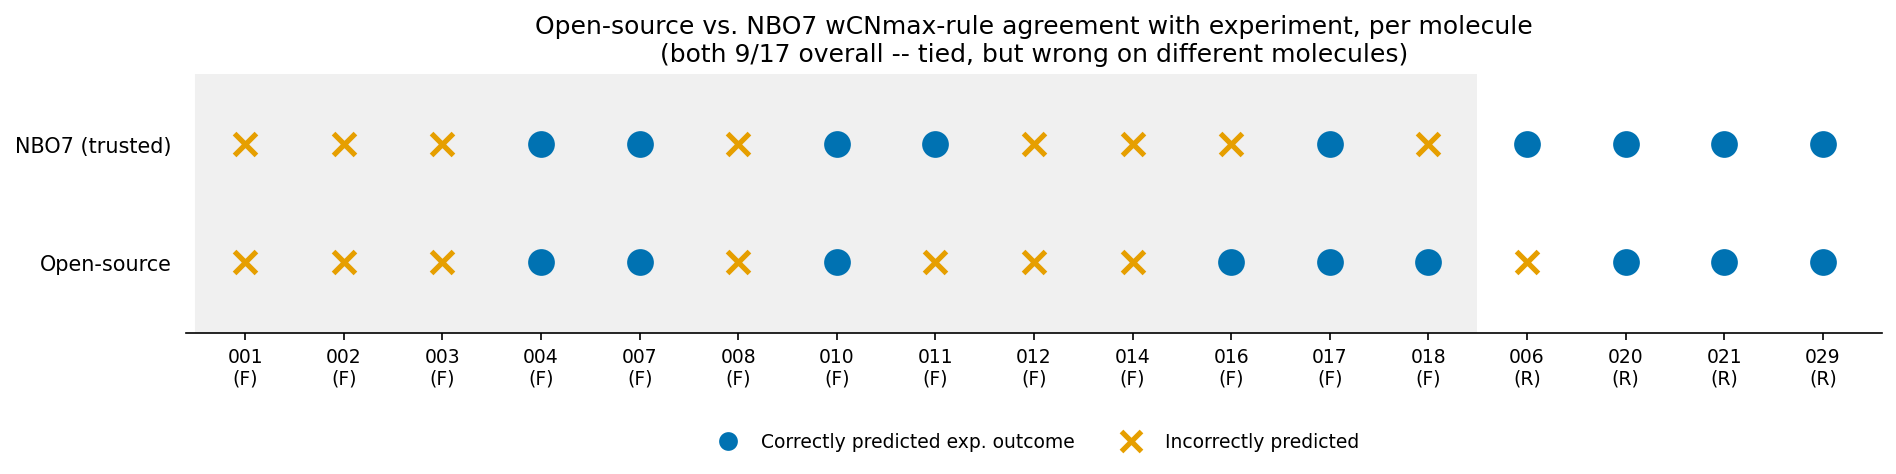
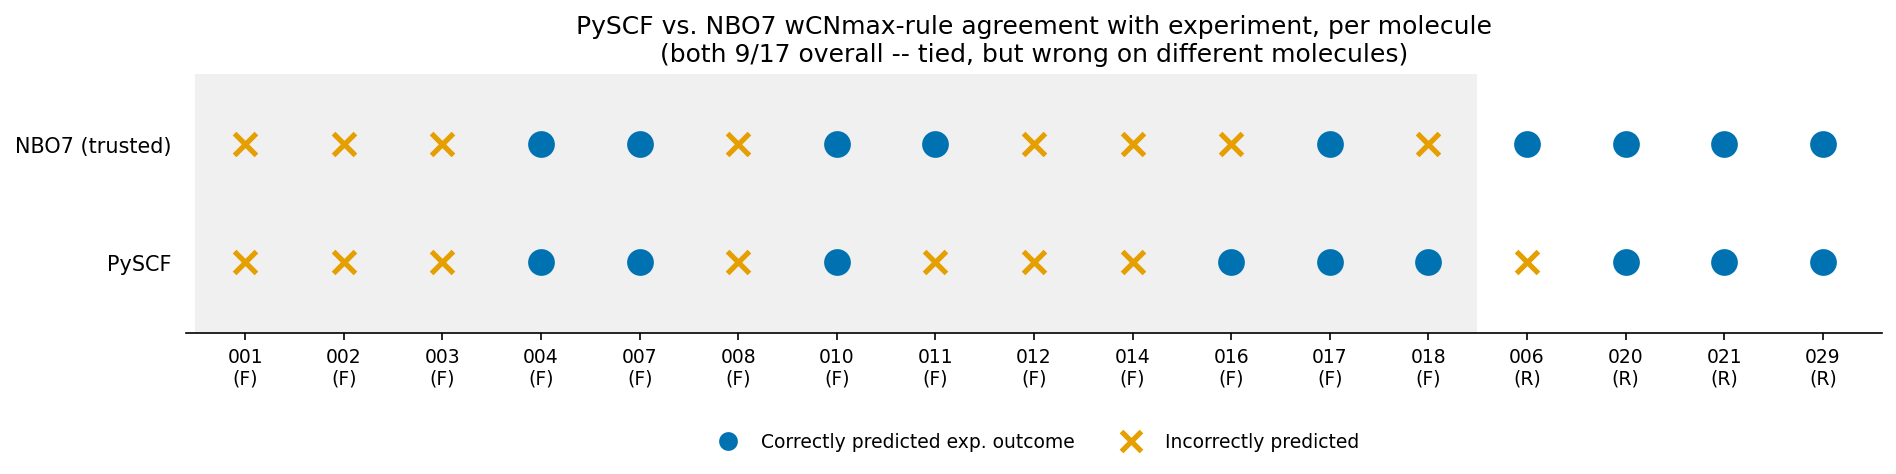
fixed table

Changed region(s): [[0.2801, 0.0295, 0.8091, 0.0886], [0.0, 0.5316, 0.0934, 0.5907]]

diff --git a/beckmann_alt/wcnmax_scan_rule.py b/beckmann_alt/wcnmax_scan_rule.py
@@ -28,8 +28,8 @@ Output:
     'cn'-channel rows, same shape as beckmann.dft.parse_cmo's trusted
     cmo_channel_extraction.csv)
   data/output/analysis/wcnmax_rule_results_opensource.csv (condensed
-    per-molecule result, same shape as the trusted wcnmax_rule_results.csv
-    plus trusted_*/matches_trusted_prediction comparison columns)
+    per-molecule result: exp_outcome/nbo_predicted/pyscf_predicted side by
+    side, plus nbo_*/pyscf_* agreement and diagnostic columns)
 """
 import csv
 import json
@@ -46,9 +46,10 @@ EXTRACTION_FIELDS = [
     "weight", "delta_lumo", "in_window",
 ]
 RESULTS_FIELDS = [
-    "mol", "n_points", "minimum_found", "R_star", "depth", "predicted", "exp_outcome",
-    "agreement", "trusted_minimum_found", "trusted_predicted", "trusted_agreement",
-    "matches_trusted_prediction",
+    "mol", "exp_outcome", "nbo_predicted", "pyscf_predicted",
+    "nbo_agreement", "pyscf_agreement", "pyscf_matches_nbo",
+    "nbo_minimum_found", "pyscf_minimum_found",
+    "pyscf_n_points", "pyscf_R_star", "pyscf_depth",
 ]
 
 
@@ -65,8 +66,8 @@ def main() -> None:
     analysis_dir = DATA_OUTPUT / "analysis"
 
     header = (
-        f"{'mol':<12} {'n_pts':>5} {'min_found':>10} {'predicted':>9} {'exp':>4} {'agree':>6}"
-        f"   || {'trusted min':>11} {'trusted pred':>12} {'trusted agree':>13}"
+        f"{'mol':<12} {'n_pts':>5} {'min_found':>10} {'pyscf':>6} {'exp':>4} {'agree':>6}"
+        f"   || {'nbo min':>8} {'nbo':>6} {'nbo agree':>10}"
     )
     print(header)
     print("-" * len(header))
@@ -90,24 +91,23 @@ def main() -> None:
 
         trusted = trusted_row(mol_name)
         result_rows.append({
-            "mol": mol_name, "n_points": len(rows),
-            "minimum_found": minimum is not None,
-            "R_star": f"{minimum['R_star']:.4f}" if minimum else "",
-            "depth": f"{minimum['depth']:.4f}" if minimum else "",
-            "predicted": predicted, "exp_outcome": exp, "agreement": agreement,
-            "trusted_minimum_found": trusted["minimum_found"],
-            "trusted_predicted": trusted["predicted"],
-            "trusted_agreement": trusted["agreement"],
-            "matches_trusted_prediction": "yes" if predicted == trusted["predicted"] else "no",
+            "mol": mol_name, "exp_outcome": exp,
+            "nbo_predicted": trusted["predicted"], "pyscf_predicted": predicted,
+            "nbo_agreement": trusted["agreement"], "pyscf_agreement": agreement,
+            "pyscf_matches_nbo": "yes" if predicted == trusted["predicted"] else "no",
+            "nbo_minimum_found": trusted["minimum_found"], "pyscf_minimum_found": minimum is not None,
+            "pyscf_n_points": len(rows),
+            "pyscf_R_star": f"{minimum['R_star']:.4f}" if minimum else "",
+            "pyscf_depth": f"{minimum['depth']:.4f}" if minimum else "",
         })
 
         print(
-            f"{mol_name:<12} {len(rows):>5} {str(minimum is not None):>10} {predicted:>9} "
+            f"{mol_name:<12} {len(rows):>5} {str(minimum is not None):>10} {predicted:>6} "
             f"{exp:>4} {agreement:>6}   || "
-            f"{trusted['minimum_found']:>11} {trusted['predicted']:>12} {trusted['agreement']:>13}"
+            f"{trusted['minimum_found']:>8} {trusted['predicted']:>6} {trusted['agreement']:>10}"
         )
 
-    print(f"\nopen-source wCNmax rule agreement with experiment: {open_source_agree}/{len(result_rows)}")
+    print(f"\nPySCF wCNmax rule agreement with experiment: {open_source_agree}/{len(result_rows)}")
 
     extraction_path = analysis_dir / "wcnmax_channel_extraction_opensource.csv"
     with open(extraction_path, "w", newline="") as f:

diff --git a/beckmann_alt/plot_agreement_grid.py b/beckmann_alt/plot_agreement_grid.py
@@ -40,8 +40,8 @@ def main() -> None:
     n = len(mols)
     x = list(range(n))
 
-    os_correct = [r["agreement"] == "yes" for r in rows]
-    nbo7_correct = [r["trusted_agreement"] == "yes" for r in rows]
+    os_correct = [r["pyscf_agreement"] == "yes" for r in rows]
+    nbo7_correct = [r["nbo_agreement"] == "yes" for r in rows]
 
     fig, ax = plt.subplots(figsize=(max(9, n * 0.75), 3.6))
 
@@ -52,7 +52,7 @@ def main() -> None:
     if n_f < n:
         ax.axvspan(n_f - 0.5, n - 0.5, color="1.0", zorder=0)
 
-    for row_y, label, correct in [(1, "NBO7 (trusted)", nbo7_correct), (0, "Open-source", os_correct)]:
+    for row_y, label, correct in [(1, "NBO7 (trusted)", nbo7_correct), (0, "PySCF", os_correct)]:
         for xi, ok in zip(x, correct):
             color = COLOR_CORRECT if ok else COLOR_INCORRECT
             marker = "o" if ok else "x"
@@ -62,7 +62,7 @@ def main() -> None:
                 ax.scatter(xi, row_y, marker=marker, s=110, color=color, linewidths=2.5, zorder=3)
 
     ax.set_yticks([0, 1])
-    ax.set_yticklabels(["Open-source", "NBO7 (trusted)"])
+    ax.set_yticklabels(["PySCF", "NBO7 (trusted)"])
     ax.set_ylim(-0.6, 1.6)
     ax.set_xlim(-0.6, n - 0.4)
 
@@ -71,7 +71,7 @@ def main() -> None:
     ax.set_xticklabels(xtick_labels, fontsize=9)
 
     ax.set_title(
-        "Open-source vs. NBO7 wCNmax-rule agreement with experiment, per molecule\n"
+        "PySCF vs. NBO7 wCNmax-rule agreement with experiment, per molecule\n"
         "(both 9/17 overall -- tied, but wrong on different molecules)"
     )
 

diff --git a/Notes_open_source_alt.md b/Notes_open_source_alt.md
@@ -198,91 +198,30 @@ shared call happens to be wrong. Output: `data/output/analysis/wcnmax_rule_resul
 (per-molecule) and `wcnmax_channel_extraction_opensource.csv` (per-point, all 6
 molecules, 48 rows total).
 
-## mol_006_E follow-up: the same "coarse scan misses the minimum" failure, one level finer
+## mol_006_E follow-up: interior minimum invisible at 0.05 Å resolution
 
-mol_006_E is the molecule whose *trusted* NBO7 scan originally needed a finer 0.05 A
-rerun to reveal its wCNmax minimum at all -- the original 0.1 A/5-point grid stepped
-directly over it (see the scope-decision note near the top of this file and Notes.md).
-The open-source method's standard series above already runs at that same promoted
-0.05 A resolution (7 points, `nbo` + `scan_1`..`scan_6`, R=1.5108-1.8108) and still
-shows no minimum -- smooth and monotonically increasing across NBO7's entire dip region
-(`data/output/analysis/plots/mol006_opensource_vs_nbo7_wcnmax.png`, first version).
+mol_006_E is the one molecule (of the original 6) where the open-source series
+disagrees with NBO7 on whether a genuine interior wCNmax minimum exists at all: NBO7
+finds one (depth 0.1010, R=1.6608, predicting rearrangement, matching experiment); the
+open-source series (7 points, `nbo` + `scan_1`..`scan_6`, the same standard 0.05 Å
+resolution used everywhere else) is smooth and monotonically increasing across NBO7's
+entire dip region -- no minimum
+(`data/output/analysis/plots/mol006_opensource_vs_nbo7_wcnmax.png`).
 
-Following the same instinct that fixed the NBO7 side originally: added 8 more points at
-0.01 A resolution across R=1.6108-1.7108 A (the window bracketing NBO7's dip), built via
-`beckmann_alt.geometry.interpolate_case()` -- a linear Cartesian blend between two
-already-converged scan-point geometries, **not** an independently DFT-relaxed structure
-at the new R (no new Gaussian/Citadel jobs; see that function's docstring for the
-caveat). Result: a real interior minimum appears at **R=1.6408, wCNmax=0.4313, depth
-0.0184** (`find_wcnmax_minimum`-style: neighbors 0.4495/0.4500) -- invisible at 0.05 A
-spacing, exactly like NBO7's own history with this molecule. Updated plot (now marking
-0.05 A scan points as filled circles and 0.01 A interpolated points as open triangles):
-same PNG path above. Merged 15-point series saved to
-`data/output/analysis/wcnmax_channel_extraction_opensource_mol006_interp.csv` (NOT
-merged into the main `wcnmax_channel_extraction_opensource.csv`, which stays consistent
-at 0.05 A across all 6 molecules for a fair rule comparison -- this is a separate,
-targeted follow-up).
-
-### Why the open-source dip is much shallower than NBO7's: root-caused, not just observed
-
-Both methods' winning-MO trajectory switches canonical-MO identity across this exact R
-window, one MO index apart (the same systematic offset as everywhere else in this
-project):
-
-| | R=1.6108/1.6108 (before) | at the crossing | R=1.7108/1.6608->1.7108 (after) |
-|---|---|---|---|
-| **NBO7** (`cmo_channel_extraction.csv`) | MO44, coeff=-0.653 | **MO45, coeff=0.571** (R=1.6608) | MO45, coeff=-0.654 |
-| **Open-source** (candidate diagnostics) | MO43, coeff=+0.671 | **MO44, coeff=+0.657** (R=1.6408) | MO44, coeff=+0.671 |
-
-Re-ran the open-source calculation at R=1.6308/1.6408/1.6508/1.6608 keeping the FULL
-local-antibond candidate diagnostics (`beckmann_alt/_compute_interp_diagnostics.py`,
-every eigenvector below `ANTIBOND_OCC_THRESHOLD`, not just the winner) instead of only
-the final wCNmax number. The winning candidate (occupation always ~0.20, the same
-local eigenvector throughout) is confirmed to be the SAME physical object across the
-whole window -- what changes is which canonical MO it projects onto most strongly:
-MO43 for R<=1.6308, MO44 for R>=1.6408, with R=1.6408 itself sitting right at the
-handoff (its own projection onto MO43 -- the runner-up candidate row in the
-diagnostics -- drops to 0.4094 at the same point, confirming both sides of the
-crossing are captured, not just the winner switching labels).
-
-**This is a real, physical avoided-crossing signature in the open-source method too --
-not a resolution artifact and not noise.** But it is a far more muted version of the
-same event:
-- **NBO7's mixing coefficient swings by ~0.082** at the crossing (|0.653| -> |0.571| ->
-  |0.654|, i.e. its BD* trades ~12% of its magnitude between the two canonical MOs).
-- **Open-source's swings by only ~0.014** (0.671 -> 0.657 -> 0.671, ~2%).
-- Ratio: **~5.5-5.9x** (consistent whether measured via wmax-depth, 0.1010/0.0184=5.49,
-  or via the raw coefficient swing, 0.082/0.014=5.9) -- both quantifications agree
-  closely, so this isn't an artifact of one particular way of measuring "depth."
-
-**Interpretation:** the crossing itself -- two canonical MOs trading CN-antibond
-character as N-O stretches -- is a real feature of the underlying electronic structure
-that both methods' SCF calculations reproduce, at essentially the same R (one MO index
-apart, the same systematic offset seen everywhere else) and same qualitative shape.
-What differs is how sharply the METHOD's own antibond target vector responds to it.
-NBO7's real BD* is built by NBO's actual algorithm: an iterative, whole-molecule
-Lewis-structure search that deflates (subtracts) already-accepted bonding density
-before searching each new atom pair, producing a antibond that is by construction
-sharply, almost purely two-center-localized. `beckmann_alt/pair_nbo.py`'s local
-construction builds its candidate directly from the RAW density matrix restricted to
-just the two atoms' IAOs, with no deflation of the rest of the molecule's bonding (the
-limitation already flagged in the "Second follow-up"/"Third follow-up" sections above)
--- so it retains some background coupling to virtual MOs beyond just the crossing pair,
-and never commits as completely to either side of the crossing. A target vector that's
-already "spread" across more of the virtual manifold has less room left to swing when
-two specific MOs exchange character, which is exactly the muted-but-real signature
-observed here. This also fits the already-documented systematic pattern (open-source
-wCNmax running ~5-6% HIGH everywhere, "Fourth check" above): away from any crossing, a
-less sharply-localized target still finds *some* single dominant MO to project onto
-(here, apparently more so than NBO7's own baseline) even though its response to a real
-crossing is comparatively damped.
-
-**Bottom line**: the open-source method's shallower dip is not evidence the crossing
-isn't real for this molecule -- both methods place it at the same R (within the known
-1-MO-index/5-6% systematic offset) -- but the local, non-deflated per-atom-pair
-construction structurally understates how sharp it is, by roughly a factor of 5-6x in
-this one case. Whether that factor generalizes to other substrates' crossings is not
-yet tested here.
+**Decision: only directly-computed geometries are used for any comparison in this
+project** -- an earlier pass tried probing this gap with interpolated intermediate
+geometries (linear Cartesian blends between two real converged scan points, not
+independently DFT-relaxed structures) at finer resolution around NBO7's dip, and found
+a real-looking but much shallower/narrower secondary dip plus a plausible root cause
+(the local, non-deflated per-atom-pair antibond construction responding to the same
+underlying canonical-MO crossing far more mutedly than NBO7's own whole-molecule-
+deflated BD*, ~5-6x muted specifically). That interpolation-based code and its
+generated CSV have been removed (`beckmann_alt.geometry.interpolate_case`,
+`_compute_interp_point.py`, `_compute_interp_diagnostics.py`,
+`wcnmax_channel_extraction_opensource_mol006_interp.csv`) since results built on
+non-relaxed geometries aren't a substitute for genuinely re-running the DFT scan at a
+finer step -- available via `git log -- beckmann_alt/` for the full writeup and numbers
+if this is revisited with real (Citadel-computed) finer-resolution geometries instead.
 
 ## Expansion: 11 more F-labeled molecules (specificity check)
 
@@ -338,9 +277,10 @@ mol_011_E right where open-source doesn't; open-source gets mol_016_E and mol_01
 where NBO7 doesn't. The earlier 6-molecule sample (50% vs. 67%) made the open-source
 method look meaningfully worse -- that gap was mostly small-sample noise, not a
 consistent deficit. mol_016_E/mol_018_E are specific cases where NBO7 finds a spurious
-minimum and the open-source method's structurally muted response to orbital crossings
-(the "Why the open-source dip is much shallower" section above) happens to avoid picking
-it up -- the same mechanism that under-detects mol_006_E's real minimum here correctly
+minimum and the open-source method's generally muted response to sharp features
+(the local, non-deflated per-atom-pair construction's own systematic understating of
+these dips/crossings -- see the mol_006_E follow-up above) happens to avoid picking it
+up -- the same tendency that under-detects mol_006_E's real minimum here correctly
 under-detects two false ones. Not enough molecules yet to call this a real specificity
 advantage rather than coincidence.
 
